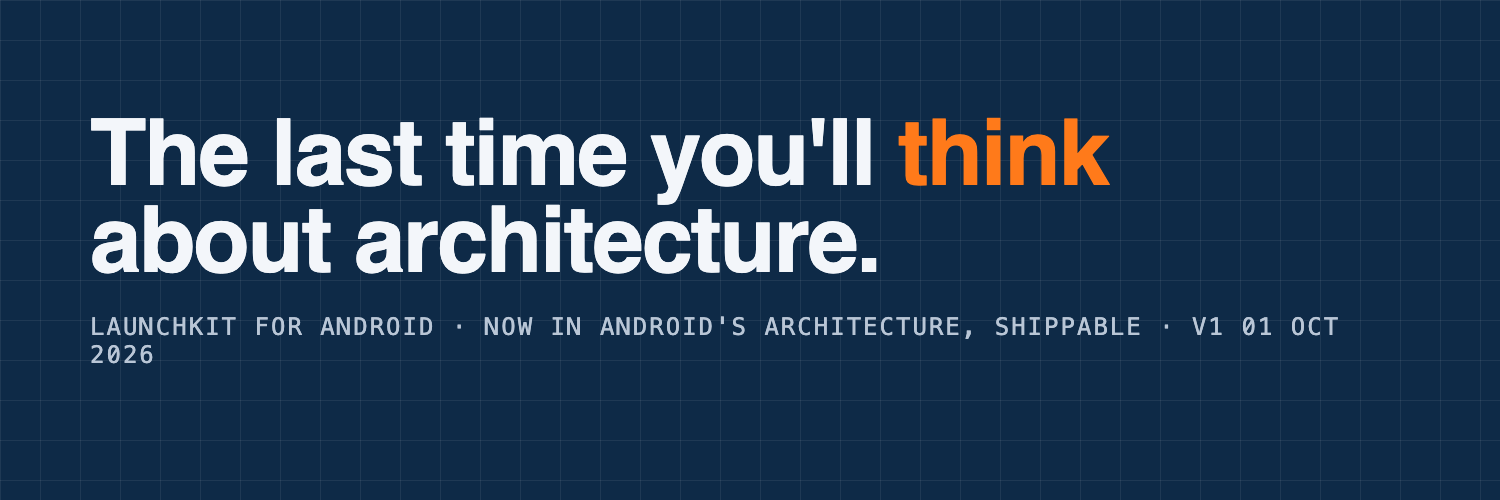
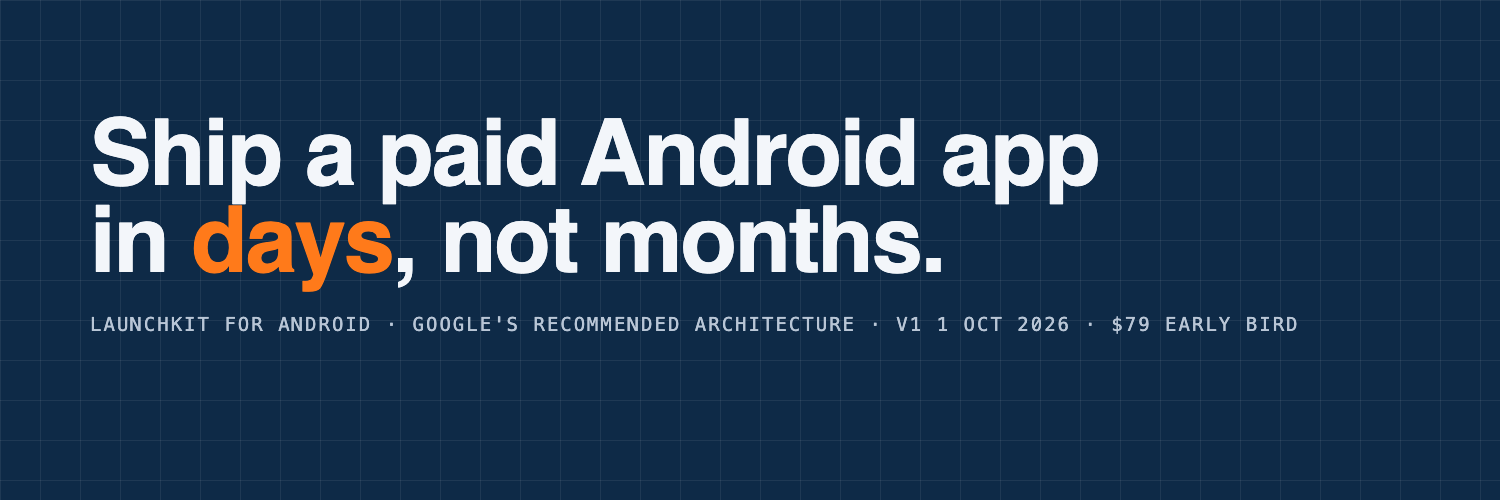
LaunchKit: header image now carries the tagline

Changed region(s): [[0.0613, 0.21, 0.736, 0.6], [0.0613, 0.63, 0.8893, 0.75]]

diff --git a/launchkit/img/header.html b/launchkit/img/header.html
@@ -1,1 +1,1 @@
-<!doctype html><html><head><meta charset="utf-8"><link rel="stylesheet" href="https://fonts.googleapis.com/css2?family=Archivo:wdth,wght@125,800&family=IBM+Plex+Mono:wght@400&display=swap"><style>html,body{margin:0;width:1500px;height:500px;background:#0E2A47;background-image:linear-gradient(rgba(255,255,255,.07) 1px,transparent 1px),linear-gradient(90deg,rgba(255,255,255,.07) 1px,transparent 1px);background-size:40px 40px;color:#F3F6FA;font-family:Archivo,sans-serif}.w{padding:110px 90px}.h{font-weight:800;font-stretch:125%;font-size:92px;line-height:.95;letter-spacing:-2px;max-width:1100px}.h span{color:#FF7A1A}.s{font-family:"IBM Plex Mono",monospace;font-size:24px;color:#B9C6D6;margin-top:28px;letter-spacing:2px}</style></head><body><div class="w"><div class="h">The last time you'll <span>think</span> about architecture.</div><div class="s">LAUNCHKIT FOR ANDROID · NOW IN ANDROID'S ARCHITECTURE, SHIPPABLE · V1 01 OCT 2026</div></div></body></html>
+<!doctype html><html><head><meta charset="utf-8"><link rel="stylesheet" href="https://fonts.googleapis.com/css2?family=Archivo:wdth,wght@125,800&family=IBM+Plex+Mono:wght@400&display=swap"><style>html,body{margin:0;width:1500px;height:500px;background:#0E2A47;background-image:linear-gradient(rgba(255,255,255,.07) 1px,transparent 1px),linear-gradient(90deg,rgba(255,255,255,.07) 1px,transparent 1px);background-size:40px 40px;color:#F3F6FA;font-family:Archivo,sans-serif}.w{padding:110px 90px}.h{font-weight:800;font-stretch:125%;font-size:92px;line-height:.95;letter-spacing:-2px;max-width:1100px}.h span{color:#FF7A1A}.s{font-family:"IBM Plex Mono",monospace;font-size:19px;color:#B9C6D6;margin-top:28px;letter-spacing:2px}</style></head><body><div class="w"><div class="h">Ship a paid Android app in <span>days</span>, not months.</div><div class="s">LAUNCHKIT FOR ANDROID · GOOGLE'S RECOMMENDED ARCHITECTURE · V1 1 OCT 2026 · $79 EARLY BIRD</div></div></body></html>
